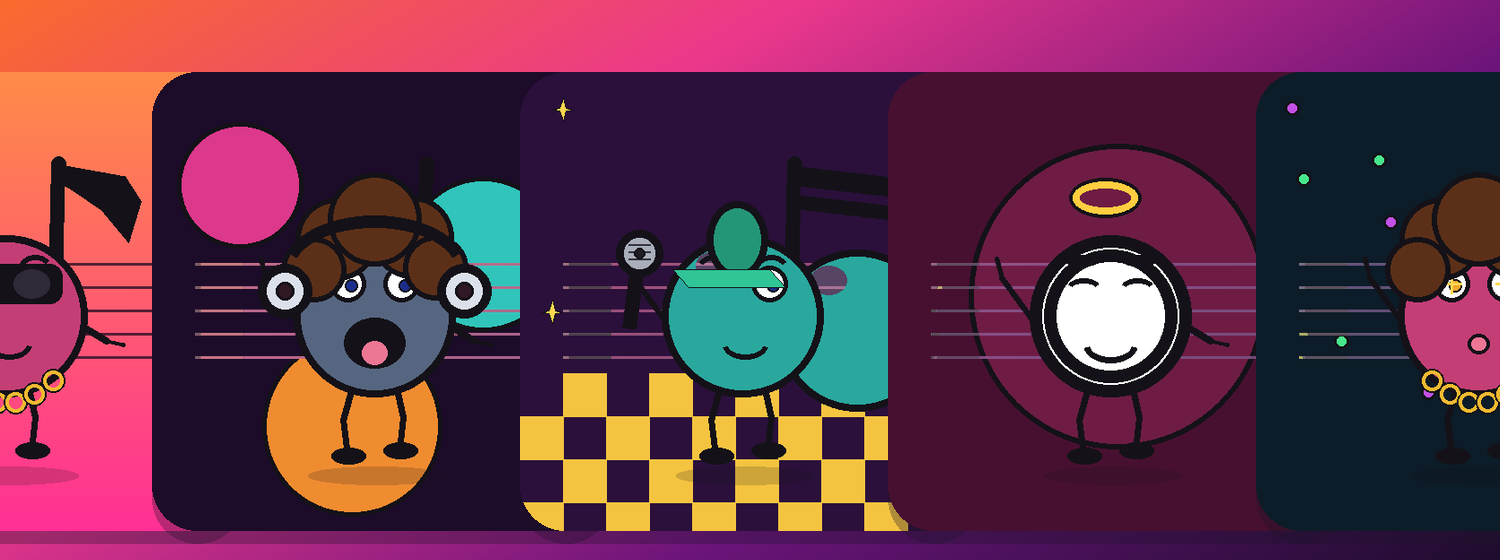
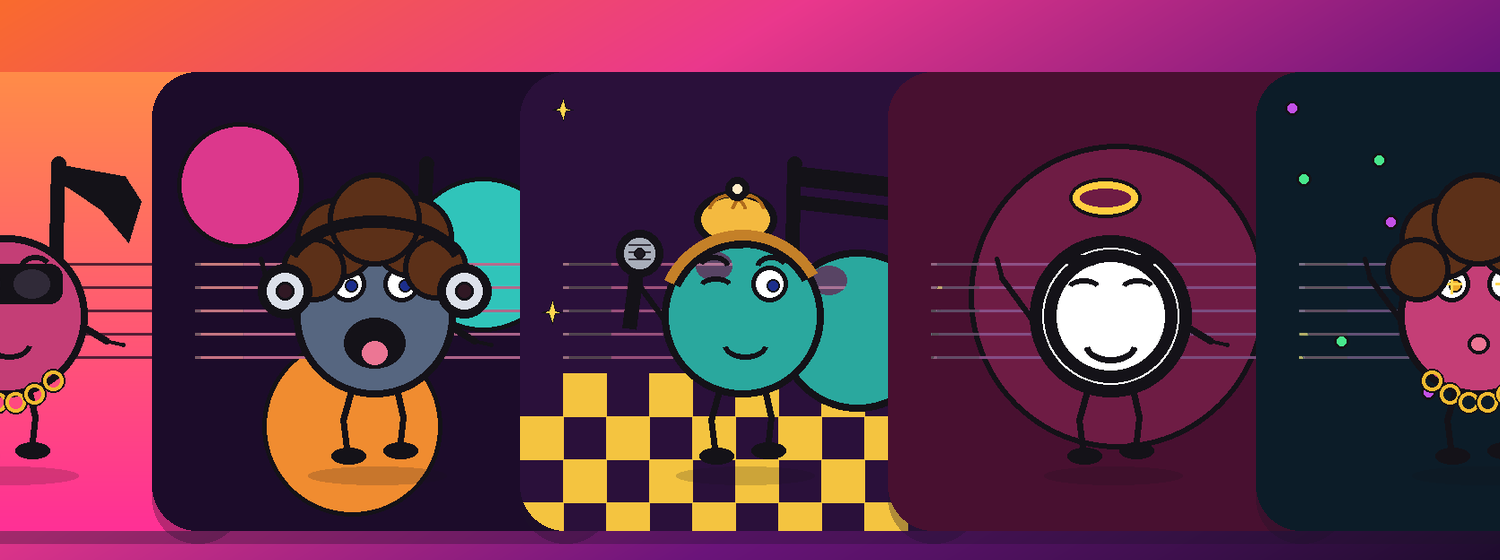
Replace the Groovy visor with a knit beanie.
The flat brim sat across the round notehead like a sticker. A mustard cap with a curved cuff hugs the crown instead.

Changed region(s): [[0.4293, 0.3036, 0.552, 0.5161]]

diff --git a/src/data/groovy-gallery.ts b/src/data/groovy-gallery.ts
@@ -9,7 +9,7 @@ export const groovySamples: GroovySample[] = [
   {
     id: 1,
     name: "Groovy #1",
-    image: "/groovy-preview/1.gif?v=4",
+    image: "/groovy-preview/1.gif?v=5",
     attributes: [
       { trait_type: "Venue", value: "Sunset Strip" },
       { trait_type: "Note", value: "Eighth" },
@@ -22,7 +22,7 @@ export const groovySamples: GroovySample[] = [
   {
     id: 2,
     name: "Groovy #2",
-    image: "/groovy-preview/2.gif?v=4",
+    image: "/groovy-preview/2.gif?v=5",
     attributes: [
       { trait_type: "Venue", value: "Lava Lamp" },
       { trait_type: "Note", value: "Quarter" },
@@ -35,12 +35,12 @@ export const groovySamples: GroovySample[] = [
   {
     id: 3,
     name: "Groovy #3",
-    image: "/groovy-preview/3.gif?v=4",
+    image: "/groovy-preview/3.gif?v=5",
     attributes: [
       { trait_type: "Venue", value: "Disco Floor" },
       { trait_type: "Note", value: "Beamed" },
       { trait_type: "Expression", value: "Wink" },
-      { trait_type: "Topper", value: "Visor" },
+      { trait_type: "Topper", value: "Beanie" },
       { trait_type: "Cable", value: "Mic" },
       { trait_type: "Riff", value: "Stars" },
     ],
@@ -48,7 +48,7 @@ export const groovySamples: GroovySample[] = [
   {
     id: 4,
     name: "Groovy #4",
-    image: "/groovy-preview/4.gif?v=4",
+    image: "/groovy-preview/4.gif?v=5",
     attributes: [
       { trait_type: "Venue", value: "Velvet Night" },
       { trait_type: "Note", value: "Whole" },
@@ -61,7 +61,7 @@ export const groovySamples: GroovySample[] = [
   {
     id: 5,
     name: "Groovy #5",
-    image: "/groovy-preview/5.gif?v=4",
+    image: "/groovy-preview/5.gif?v=5",
     attributes: [
       { trait_type: "Venue", value: "Blacklight" },
       { trait_type: "Note", value: "Eighth" },
@@ -74,7 +74,7 @@ export const groovySamples: GroovySample[] = [
   {
     id: 6,
     name: "Groovy #6",
-    image: "/groovy-preview/6.gif?v=4",
+    image: "/groovy-preview/6.gif?v=5",
     attributes: [
       { trait_type: "Venue", value: "Chrome Wash" },
       { trait_type: "Note", value: "Quarter" },
@@ -87,7 +87,7 @@ export const groovySamples: GroovySample[] = [
   {
     id: 7,
     name: "Groovy #7",
-    image: "/groovy-preview/7.gif?v=4",
+    image: "/groovy-preview/7.gif?v=5",
     attributes: [
       { trait_type: "Venue", value: "Sunset Strip" },
       { trait_type: "Note", value: "Whole" },
@@ -100,7 +100,7 @@ export const groovySamples: GroovySample[] = [
   {
     id: 8,
     name: "Groovy #8",
-    image: "/groovy-preview/8.gif?v=4",
+    image: "/groovy-preview/8.gif?v=5",
     attributes: [
       { trait_type: "Venue", value: "Lava Lamp" },
       { trait_type: "Note", value: "Beamed" },
@@ -113,7 +113,7 @@ export const groovySamples: GroovySample[] = [
   {
     id: 9,
     name: "Groovy #9",
-    image: "/groovy-preview/9.gif?v=4",
+    image: "/groovy-preview/9.gif?v=5",
     attributes: [
       { trait_type: "Venue", value: "Disco Floor" },
       { trait_type: "Note", value: "Eighth" },
@@ -126,12 +126,12 @@ export const groovySamples: GroovySample[] = [
   {
     id: 10,
     name: "Groovy #10",
-    image: "/groovy-preview/10.gif?v=4",
+    image: "/groovy-preview/10.gif?v=5",
     attributes: [
       { trait_type: "Venue", value: "Velvet Night" },
       { trait_type: "Note", value: "Quarter" },
       { trait_type: "Expression", value: "Starry" },
-      { trait_type: "Topper", value: "Visor" },
+      { trait_type: "Topper", value: "Beanie" },
       { trait_type: "Cable", value: "Cans" },
       { trait_type: "Riff", value: "None" },
     ],
@@ -139,7 +139,7 @@ export const groovySamples: GroovySample[] = [
   {
     id: 11,
     name: "Groovy #11",
-    image: "/groovy-preview/11.gif?v=4",
+    image: "/groovy-preview/11.gif?v=5",
     attributes: [
       { trait_type: "Venue", value: "Blacklight" },
       { trait_type: "Note", value: "Whole" },
@@ -152,7 +152,7 @@ export const groovySamples: GroovySample[] = [
   {
     id: 12,
     name: "Groovy #12",
-    image: "/groovy-preview/12.gif?v=4",
+    image: "/groovy-preview/12.gif?v=5",
     attributes: [
       { trait_type: "Venue", value: "Chrome Wash" },
       { trait_type: "Note", value: "Beamed" },
@@ -165,7 +165,7 @@ export const groovySamples: GroovySample[] = [
   {
     id: 13,
     name: "Groovy #13",
-    image: "/groovy-preview/13.gif?v=4",
+    image: "/groovy-preview/13.gif?v=5",
     attributes: [
       { trait_type: "Venue", value: "Sunset Strip" },
       { trait_type: "Note", value: "Quarter" },
@@ -178,12 +178,12 @@ export const groovySamples: GroovySample[] = [
   {
     id: 14,
     name: "Groovy #14",
-    image: "/groovy-preview/14.gif?v=4",
+    image: "/groovy-preview/14.gif?v=5",
     attributes: [
       { trait_type: "Venue", value: "Lava Lamp" },
       { trait_type: "Note", value: "Eighth" },
       { trait_type: "Expression", value: "Wink" },
-      { trait_type: "Topper", value: "Visor" },
+      { trait_type: "Topper", value: "Beanie" },
       { trait_type: "Cable", value: "Cans" },
       { trait_type: "Riff", value: "Vinyl" },
     ],
@@ -191,7 +191,7 @@ export const groovySamples: GroovySample[] = [
   {
     id: 15,
     name: "Groovy #15",
-    image: "/groovy-preview/15.gif?v=4",
+    image: "/groovy-preview/15.gif?v=5",
     attributes: [
       { trait_type: "Venue", value: "Disco Floor" },
       { trait_type: "Note", value: "Whole" },
@@ -204,7 +204,7 @@ export const groovySamples: GroovySample[] = [
   {
     id: 16,
     name: "Groovy #16",
-    image: "/groovy-preview/16.gif?v=4",
+    image: "/groovy-preview/16.gif?v=5",
     attributes: [
       { trait_type: "Venue", value: "Velvet Night" },
       { trait_type: "Note", value: "Beamed" },

diff --git a/src/data/groovy-traits.ts b/src/data/groovy-traits.ts
@@ -14,7 +14,7 @@ export type GroovyTraitCategory = {
 };
 
 /** Bump when APNG layers change so the studio does not keep a stale loop. */
-export const GROOVY_ART_VERSION = "groovy-v4";
+export const GROOVY_ART_VERSION = "groovy-v5";
 
 export const GROOVY_FRAMES = 12;
 export const GROOVY_DURATION_MS = 90;
@@ -64,12 +64,12 @@ export const groovyTraitCategories: GroovyTraitCategory[] = [
   {
     id: "topper",
     label: "Topper",
-    blurb: "Sits on the notehead. Afro, shades, visor, a disco halo.",
+    blurb: "Sits on the notehead. Afro, shades, a knit beanie, a disco halo.",
     noneLabel: "None",
     traits: [
       { id: "afro", name: "Afro", image: "/groovy-traits/topper/afro.png", rarity: 20 },
       { id: "shades", name: "Shades", image: "/groovy-traits/topper/shades.png", rarity: 22 },
-      { id: "visor", name: "Visor", image: "/groovy-traits/topper/visor.png", rarity: 16 },
+      { id: "visor", name: "Beanie", image: "/groovy-traits/topper/visor.png", rarity: 16 },
       { id: "halo", name: "Halo", image: "/groovy-traits/topper/halo.png", rarity: 14 },
     ],
   },

diff --git a/src/app/groovy/gallery/page.tsx b/src/app/groovy/gallery/page.tsx
@@ -55,7 +55,7 @@ export default function GroovyGalleryPage() {
         {extraPreviews.map((id) => (
           <article key={id} className="overflow-hidden rounded-2xl border bg-card">
             <ApngImage
-              src={`/groovy-preview/${id}.gif?v=4`}
+              src={`/groovy-preview/${id}.gif?v=5`}
               alt={`Groovy #${id}`}
               width={512}
               height={512}

diff --git a/scripts/build_groovy.py b/scripts/build_groovy.py
@@ -342,13 +342,16 @@ def paint_topper(kind: str, frame: int) -> Image.Image:
         draw.ellipse((hx + 8, ey - 16, hx + 48, ey + 16), fill=(48, 42, 56, 255))
         draw.line((hx - 40, ey - 8, hx - 18, ey + 2), fill=(255, 220, 90, 255), width=3)
     elif kind == "visor":
-        brim = ey - 16
-        draw.ellipse((hx - 40, crown - 38, hx + 28, brim + 10), fill=(36, 150, 120, 255), outline=INK, width=STROKE)
-        draw.polygon(
-            [(hx - 78, brim), (hx + 30, brim), (hx + 48, brim + 20), (hx - 60, brim + 20)],
-            fill=(48, 196, 150, 255),
-            outline=INK,
-        )
+        knit = (244, 186, 64, 255)
+        cuff = (196, 128, 40, 255)
+        rib = (176, 108, 28, 255)
+        draw.ellipse((hx - 54, crown - 50, hx + 38, crown + 14), fill=knit, outline=INK, width=STROKE)
+        draw.arc((hx - 40, crown - 46, hx + 6, crown + 2), 200, 340, fill=rib, width=4)
+        draw.arc((hx - 14, crown - 46, hx + 26, crown + 2), 200, 340, fill=rib, width=4)
+        r_cuff = HEAD_R + 6
+        draw.arc((hx - r_cuff, hy - r_cuff, hx + r_cuff, hy + r_cuff), 205, 330, fill=INK, width=20)
+        draw.arc((hx - r_cuff, hy - r_cuff, hx + r_cuff, hy + r_cuff), 205, 330, fill=cuff, width=12)
+        draw_circle(draw, hx - 6, crown - 52, 13, (255, 236, 200, 255))
     else:
         draw.ellipse((hx - 46, crown - 64, hx + 34, crown - 20), outline=(255, 206, 64, 255), width=12)
         draw.ellipse((hx - 46, crown - 64, hx + 34, crown - 20), outline=INK, width=4)
@@ -454,7 +457,7 @@ TRAIT_SPEC: dict[str, list[tuple[str, str, int]]] = {
         ("none", "None", 28),
         ("afro", "Afro", 20),
         ("shades", "Shades", 22),
-        ("visor", "Visor", 16),
+        ("visor", "Beanie", 16),
         ("halo", "Halo", 14),
     ],
     "cable": [
@@ -630,7 +633,7 @@ def write_ts_gallery(samples: list[dict]) -> None:
             "  {\n"
             f"    id: {sample['id']},\n"
             f'    name: "{sample["name"]}",\n'
-            f'    image: "{sample["image"]}?v=4",\n'
+            f'    image: "{sample["image"]}?v=5",\n'
             f"    attributes: [\n      {attrs},\n    ],\n"
             "  }"
         )
